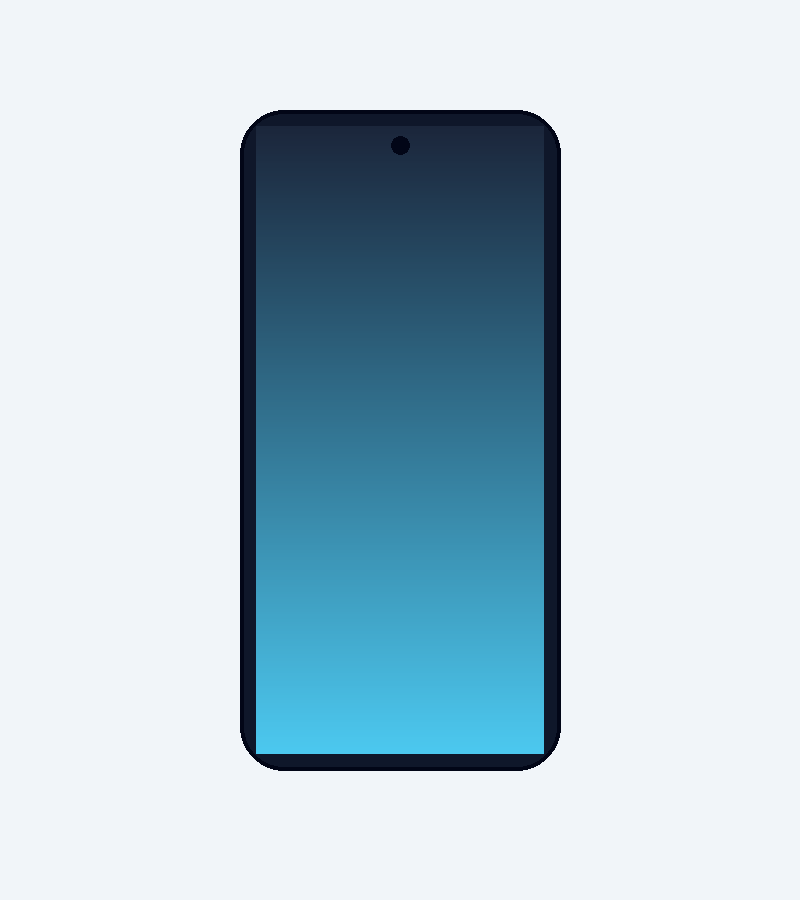
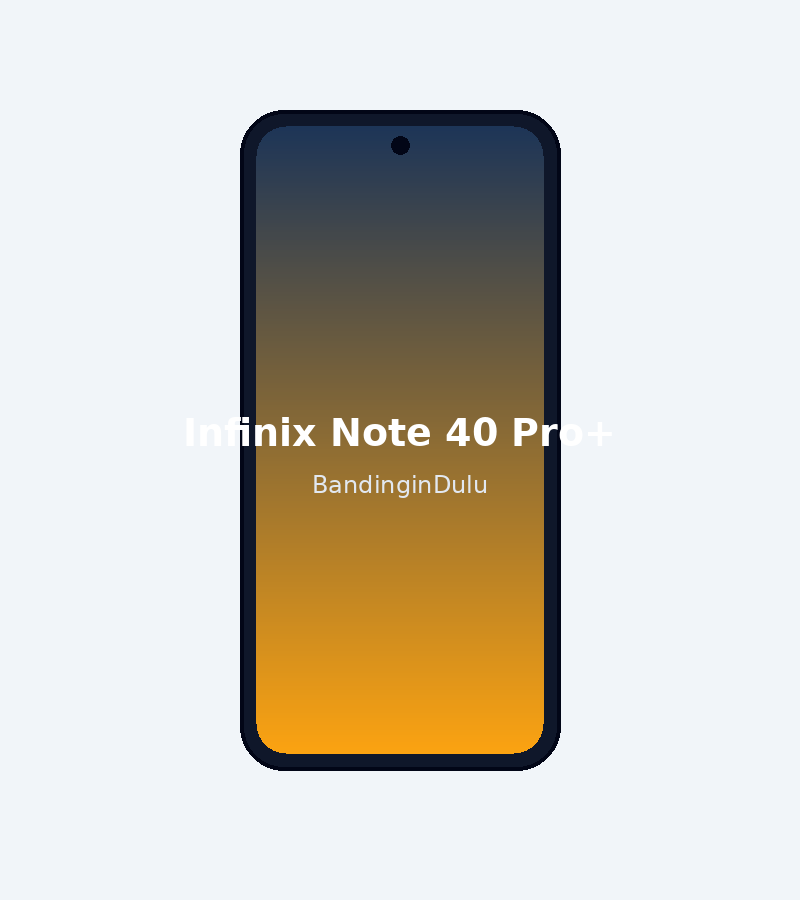
Auto-post harian: 15 artikel (2026-11-23)

Changed region(s): [[0.2812, 0.2178, 0.6875, 0.84], [0.3438, 0.1244, 0.6562, 0.1556]]

diff --git a/content/perbandingan/realme-12-pro-5g-vs-infinix-note-40-pro-5g-kamera-mana-yang-lebih-bagus.md b/content/perbandingan/realme-12-pro-5g-vs-infinix-note-40-pro-5g-kamera-mana-yang-lebih-bagus.md
@@ -1,0 +1,46 @@
+---
+title: "realme 12 Pro+ 5G vs Infinix Note 40 Pro+ 5G — Kamera Mana yang Lebih Bagus?"
+date: 2026-11-23T22:07:00+07:00
+kategori: "kamera"
+produk_a: "realme 12 Pro+ 5G"
+produk_b: "Infinix Note 40 Pro+ 5G"
+img_a: "/bandingindulu/img/r12proplus-a.png"
+img_b: "/bandingindulu/img/note40pp-a.png"
+description: "Dua HP kelas menengah yang sering disandingkan. Kami bedah dari spesifikasi resmi pabrik."
+sumber: "nanoreview, kimovil"
+---
+
+## Ringkasan kamera
+
+Dua HP kelas menengah yang sering disandingkan. Kami bedah dari spesifikasi resmi pabrik.
+
+## Sama-sama AMOLED 120 Hz, — realme chipset lebih kencang
+
+| Kategori | realme 12 Pro+ | Infinix Note 40 Pro+ |
+|----------|--------|--------|
+| Layar | AMOLED 6,7&quot; · 120 Hz · 2412×1080 | AMOLED 6,78&quot; · 120 Hz · FHD+ |
+| Chipset | Snapdragon 7s Gen 2 · 4 nm · 2,4 GHz | Dimensity 7020 · 2,2 GHz |
+| Penyimpanan | RAM 8/12 GB · 128/256 GB | RAM 12 GB · 256 GB UFS 2.2 |
+
+## Infinix 108 MP, — realme bawa periskop 3X
+
+| Kategori | realme 12 Pro+ | Infinix Note 40 Pro+ |
+|----------|--------|--------|
+| Kamera utama | 50 MP Sony IMX890 · OIS | 108 MP · OIS |
+| Zoom | Periskop 64 MP · zoom optik 3X | Tidak disebut |
+| Kamera depan | 32 MP | 32 MP |
+
+## realme baterai lebih besar, — Infinix isi lebih cepat
+
+| Kategori | realme 12 Pro+ | Infinix Note 40 Pro+ |
+|----------|--------|--------|
+| Baterai | 5.000 mAh | 4.600 mAh |
+| Pengisian kabel | 67 W SUPERVOOC | 100 W |
+| Wireless charging | Tidak disebut | MagCharge 20 W |
+
+## Kesimpulan
+
+- Pilih realme 12 Pro+ 5G kalau mau periskop 64 MP zoom optik 3X, baterai 5.000 mAh, dan Snapdragon 7s Gen 2.
+- Pilih Infinix Note 40 Pro+ 5G kalau mau isi 100 W, wireless MagCharge 20 W, dan layar 6,78".
+- Keduanya AMOLED 120 Hz dan kamera depan 32 MP — bedanya di periskop vs 108 MP, dan 67 W vs 100 W.
+

diff --git a/content/perbandingan/apple-iphone-15-vs-samsung-galaxy-s24-perbandingan-spesifikasi-lengkap.md b/content/perbandingan/apple-iphone-15-vs-samsung-galaxy-s24-perbandingan-spesifikasi-lengkap.md
@@ -1,6 +1,6 @@
 ---
-title: "Apple iPhone 15 vs Samsung Galaxy S24: Perbandingan Spesifikasi Lengkap"
-date: 2026-11-23T20:42:00+07:00
+title: "Apple iPhone 15 vs Samsung Galaxy S24 — Perbandingan Spesifikasi Lengkap"
+date: 2026-11-23T19:33:00+07:00
 kategori: "spesifikasi lengkap"
 produk_a: "Apple iPhone 15"
 produk_b: "Samsung Galaxy S24"

diff --git a/content/perbandingan/redmi-note-14-pro-vs-redmi-note-14-pro-5g-kamera-mana-yang-lebih-bagus.md b/content/perbandingan/redmi-note-14-pro-vs-redmi-note-14-pro-5g-kamera-mana-yang-lebih-bagus.md
@@ -1,6 +1,6 @@
 ---
-title: "Redmi Note 14 Pro+ vs Redmi Note 14 Pro 5G: Kamera Mana yang Lebih Bagus?"
-date: 2026-11-23T21:55:00+07:00
+title: "Redmi Note 14 Pro+ vs Redmi Note 14 Pro 5G — Kamera Mana yang Lebih Bagus?"
+date: 2026-11-23T20:42:00+07:00
 kategori: "kamera"
 produk_a: "Redmi Note 14 Pro+"
 produk_b: "Redmi Note 14 Pro 5G"

diff --git a/content/perbandingan/samsung-s23-fe-vs-samsung-s24-fe-perbandingan-spesifikasi-lengkap.md b/content/perbandingan/samsung-s23-fe-vs-samsung-s24-fe-perbandingan-spesifikasi-lengkap.md
@@ -1,6 +1,6 @@
 ---
-title: "Samsung S23 FE vs Samsung S24 FE: Perbandingan Spesifikasi Lengkap"
-date: 2026-11-23T16:55:00+07:00
+title: "Samsung S23 FE vs Samsung S24 FE — Perbandingan Spesifikasi Lengkap"
+date: 2026-11-23T15:42:00+07:00
 kategori: "spesifikasi lengkap"
 produk_a: "Samsung S23 FE"
 produk_b: "Samsung S24 FE"

diff --git a/content/perbandingan/oppo-reno12-5g-vs-reno12-pro-5g-perbandingan-spesifikasi-lengkap.md b/content/perbandingan/oppo-reno12-5g-vs-reno12-pro-5g-perbandingan-spesifikasi-lengkap.md
@@ -1,6 +1,6 @@
 ---
-title: "OPPO Reno12 5G vs Reno12 Pro 5G: Perbandingan Spesifikasi Lengkap"
-date: 2026-11-23T10:42:00+07:00
+title: "OPPO Reno12 5G vs Reno12 Pro 5G — Perbandingan Spesifikasi Lengkap"
+date: 2026-11-23T09:33:00+07:00
 kategori: "spesifikasi lengkap"
 produk_a: "OPPO Reno12 5G"
 produk_b: "Reno12 Pro 5G"

diff --git a/content/perbandingan/poco-x7-pro-vs-realme-13-pro-5g-perbandingan-spesifikasi-lengkap.md b/content/perbandingan/poco-x7-pro-vs-realme-13-pro-5g-perbandingan-spesifikasi-lengkap.md
@@ -1,6 +1,6 @@
 ---
-title: "POCO X7 Pro vs realme 13 Pro 5G: Perbandingan Spesifikasi Lengkap"
-date: 2026-11-23T18:18:00+07:00
+title: "POCO X7 Pro vs realme 13 Pro 5G — Perbandingan Spesifikasi Lengkap"
+date: 2026-11-23T17:07:00+07:00
 kategori: "spesifikasi lengkap"
 produk_a: "POCO X7 Pro"
 produk_b: "realme 13 Pro 5G"

diff --git a/content/perbandingan/infinix-note-40-pro-vs-tecno-camon-30-kamera-mana-yang-lebih-bagus.md b/content/perbandingan/infinix-note-40-pro-vs-tecno-camon-30-kamera-mana-yang-lebih-bagus.md
@@ -1,6 +1,6 @@
 ---
-title: "Infinix Note 40 Pro vs Tecno Camon 30: Kamera Mana yang Lebih Bagus?"
-date: 2026-11-23T17:07:00+07:00
+title: "Infinix Note 40 Pro vs Tecno Camon 30 — Kamera Mana yang Lebih Bagus?"
+date: 2026-11-23T16:55:00+07:00
 kategori: "kamera"
 produk_a: "Infinix Note 40 Pro"
 produk_b: "Tecno Camon 30"

diff --git a/content/perbandingan/galaxy-a35-5g-vs-galaxy-a55-5g-perbandingan-spesifikasi-lengkap.md b/content/perbandingan/galaxy-a35-5g-vs-galaxy-a55-5g-perbandingan-spesifikasi-lengkap.md
@@ -1,6 +1,6 @@
 ---
-title: "Galaxy A35 5G vs Galaxy A55 5G: Perbandingan Spesifikasi Lengkap"
-date: 2026-11-23T14:33:00+07:00
+title: "Galaxy A35 5G vs Galaxy A55 5G — Perbandingan Spesifikasi Lengkap"
+date: 2026-11-23T13:18:00+07:00
 kategori: "spesifikasi lengkap"
 produk_a: "Galaxy A35 5G"
 produk_b: "Galaxy A55 5G"

diff --git a/content/perbandingan/galaxy-a56-5g-vs-galaxy-a36-5g-perbandingan-spesifikasi-lengkap.md b/content/perbandingan/galaxy-a56-5g-vs-galaxy-a36-5g-perbandingan-spesifikasi-lengkap.md
@@ -1,6 +1,6 @@
 ---
-title: "Galaxy A56 5G vs Galaxy A36 5G: Perbandingan Spesifikasi Lengkap"
-date: 2026-11-23T12:07:00+07:00
+title: "Galaxy A56 5G vs Galaxy A36 5G — Perbandingan Spesifikasi Lengkap"
+date: 2026-11-23T11:55:00+07:00
 kategori: "spesifikasi lengkap"
 produk_a: "Galaxy A56 5G"
 produk_b: "Galaxy A36 5G"

diff --git a/content/perbandingan/vivo-y28-vs-oppo-a5-pro-5g-perbandingan-spesifikasi-lengkap.md b/content/perbandingan/vivo-y28-vs-oppo-a5-pro-5g-perbandingan-spesifikasi-lengkap.md
@@ -1,6 +1,6 @@
 ---
-title: "vivo Y28 vs OPPO A5 Pro 5G: Perbandingan Spesifikasi Lengkap"
-date: 2026-11-23T22:07:00+07:00
+title: "vivo Y28 vs OPPO A5 Pro 5G — Perbandingan Spesifikasi Lengkap"
+date: 2026-11-23T21:55:00+07:00
 kategori: "spesifikasi lengkap"
 produk_a: "vivo Y28"
 produk_b: "OPPO A5 Pro 5G"

diff --git a/content/perbandingan/poco-x6-vs-redmi-note-13-pro-5g-kamera-mana-yang-lebih-bagus.md b/content/perbandingan/poco-x6-vs-redmi-note-13-pro-5g-kamera-mana-yang-lebih-bagus.md
@@ -1,6 +1,6 @@
 ---
-title: "POCO X6 vs Redmi Note 13 Pro 5G: Kamera Mana yang Lebih Bagus?"
-date: 2026-11-23T11:55:00+07:00
+title: "POCO X6 vs Redmi Note 13 Pro 5G — Kamera Mana yang Lebih Bagus?"
+date: 2026-11-23T10:42:00+07:00
 kategori: "kamera"
 produk_a: "POCO X6"
 produk_b: "Redmi Note 13 Pro 5G"

diff --git a/content/perbandingan/oppo-reno13-5g-vs-vivo-v40-kamera-mana-yang-lebih-bagus.md b/content/perbandingan/oppo-reno13-5g-vs-vivo-v40-kamera-mana-yang-lebih-bagus.md
@@ -1,6 +1,6 @@
 ---
-title: "OPPO Reno13 5G vs vivo V40: Kamera Mana yang Lebih Bagus?"
-date: 2026-11-23T15:42:00+07:00
+title: "OPPO Reno13 5G vs vivo V40 — Kamera Mana yang Lebih Bagus?"
+date: 2026-11-23T14:33:00+07:00
 kategori: "kamera"
 produk_a: "OPPO Reno13 5G"
 produk_b: "vivo V40"
